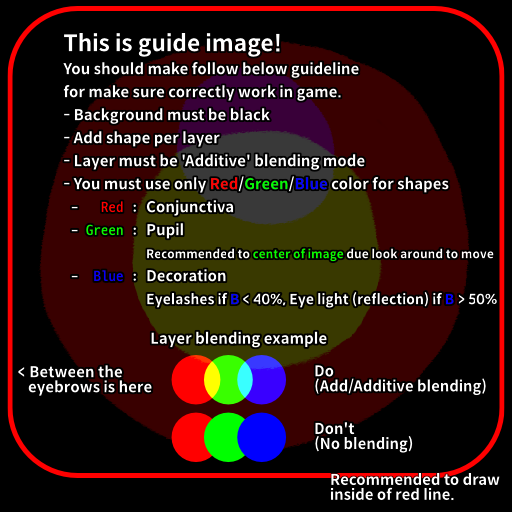
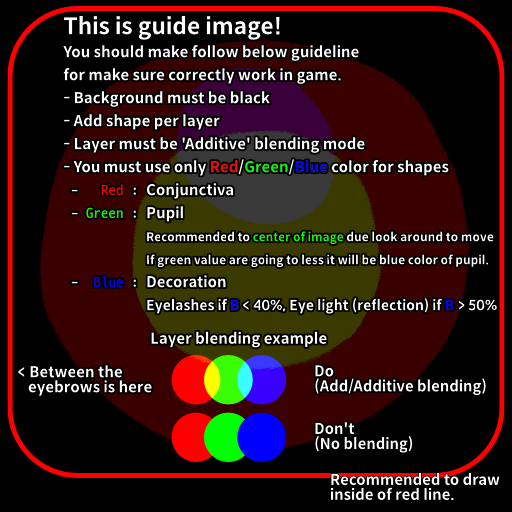
chore: Added more detail of eye's green channel value (#4)

Changed region(s): [[0.125, 0.0312, 0.9688, 0.625]]

diff --git a/docs/eyes.md b/docs/eyes.md
@@ -10,8 +10,9 @@ The is probably tricky for non-technical artists, but stick with this!
 3. Eye image is supposed to represent red, green, and blue as the parts of the eye.
    - Red is conjunctiva (white color of eye)
    - Green is pupil (black color of eye)
-     - Only this part will move around for looking direction.
      - **Recommended to place center of image**.
+     - Only this part will move around for looking direction.
+     - If green value are going to less it will be blue color of pupil.
    - Blue is decoration
      - If blue is over `50%`, it'll be **reflection of eye**. (highlight)
      - If less then `40%`, it'll be **eyelashes**.
